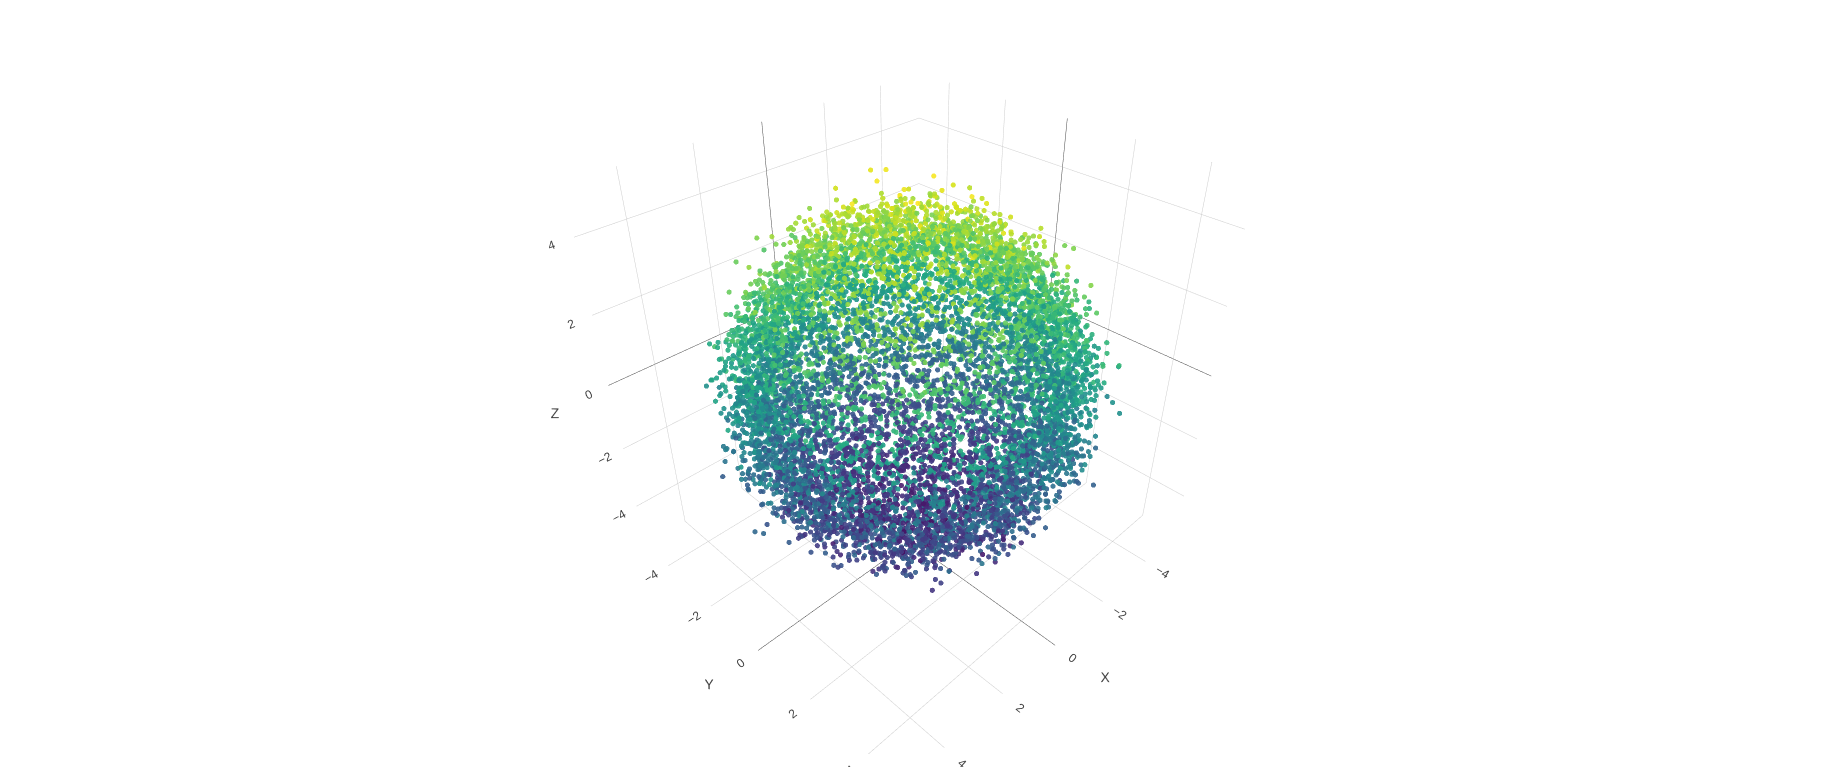
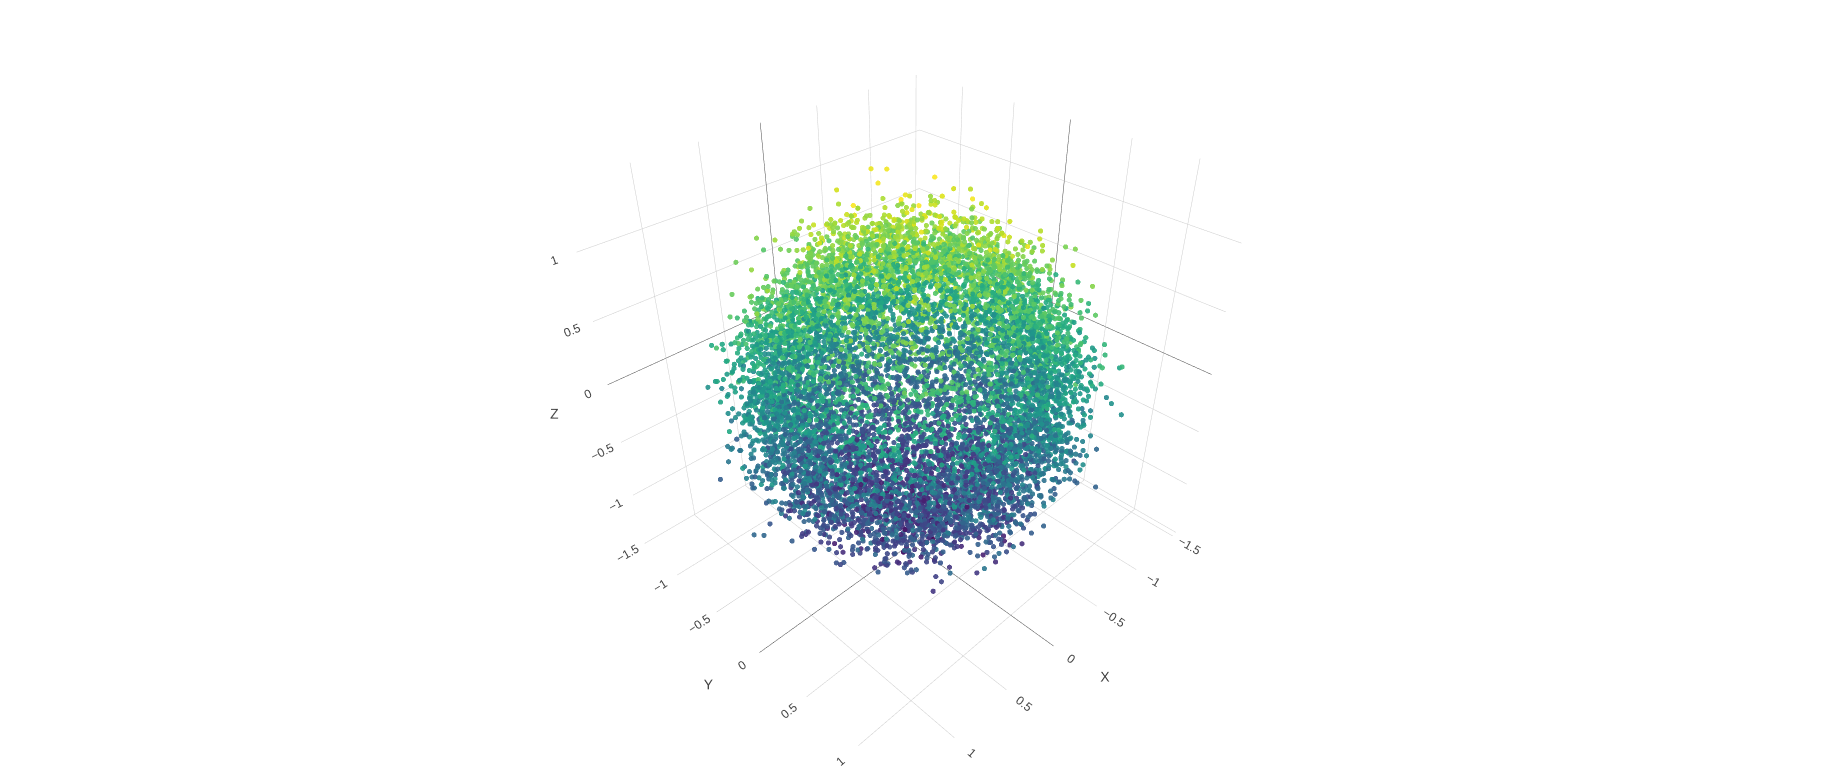
image description

Changed region(s): [[0.375, 0.2399, 0.6562, 0.7797]]

diff --git a/README.md b/README.md
@@ -28,7 +28,7 @@ The direction is uniformly distributed over the surface of a sphere, ensuring th
 
 ![Point cloud visualization](images/default.png)
 
-*Figure: Point cloud generated with the `input/default.txt` input file.*
+*Figure: Point cloud generated with the `input/default.txt` input file, visualized with the interactive viewer `images/plot_csv.html`.*
 
 ### Edge cases
 
@@ -38,15 +38,11 @@ The direction is uniformly distributed over the surface of a sphere, ensuring th
 
 ![Point cloud visualization](images/no_std.png)
 
-*Figure: Spherical shell generated with the `input/no_std.txt` input file.*
+*Figure: Spherical shell generated with the `input/no_std.txt` input file, visualized with the interactive viewer `images/plot_csv.html`.*
 
 ![Point cloud visualization](images/no_R.png)
 
-*Figure: Point cloud generated with the `input/no_R.txt` input file.*
-
-## Visualization
-
-The project provides an interactive viewer: [images/plot_csv.html](images/plot_csv.html)
+*Figure: Point cloud generated with the `input/no_R.txt` input file,, visualized with the interactive viewer `images/plot_csv.html`.*
 
 ## Features
 
